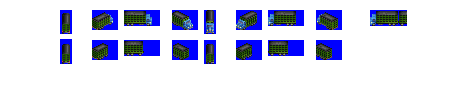
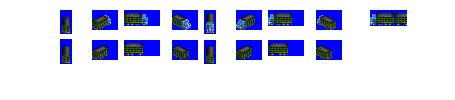
Change: improved Swineshead livestock truck

diff --git a/src/vehicles/swineshead.py b/src/vehicles/swineshead.py
@@ -11,7 +11,7 @@ consist = RVConsist(id = 'swineshead',
 consist.add_unit(LivestockHauler(consist = consist,
                         weight = 10,
                         capacity = 20,
-                        vehicle_length = 7,
+                        vehicle_length = 6,
                         visual_effect = 'VISUAL_EFFECT_DIESEL',
                         spriterow_num = 0))
 
